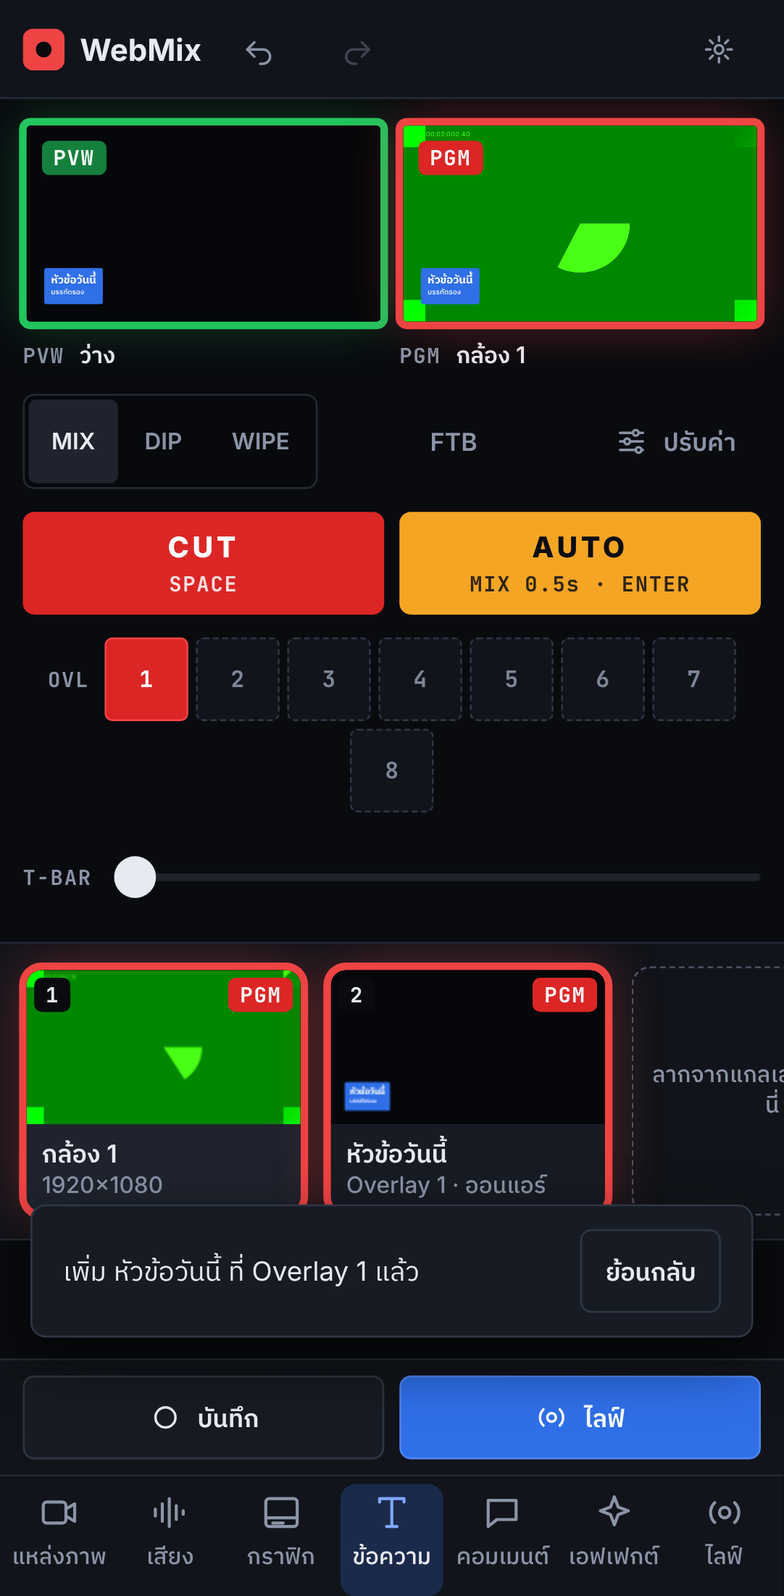
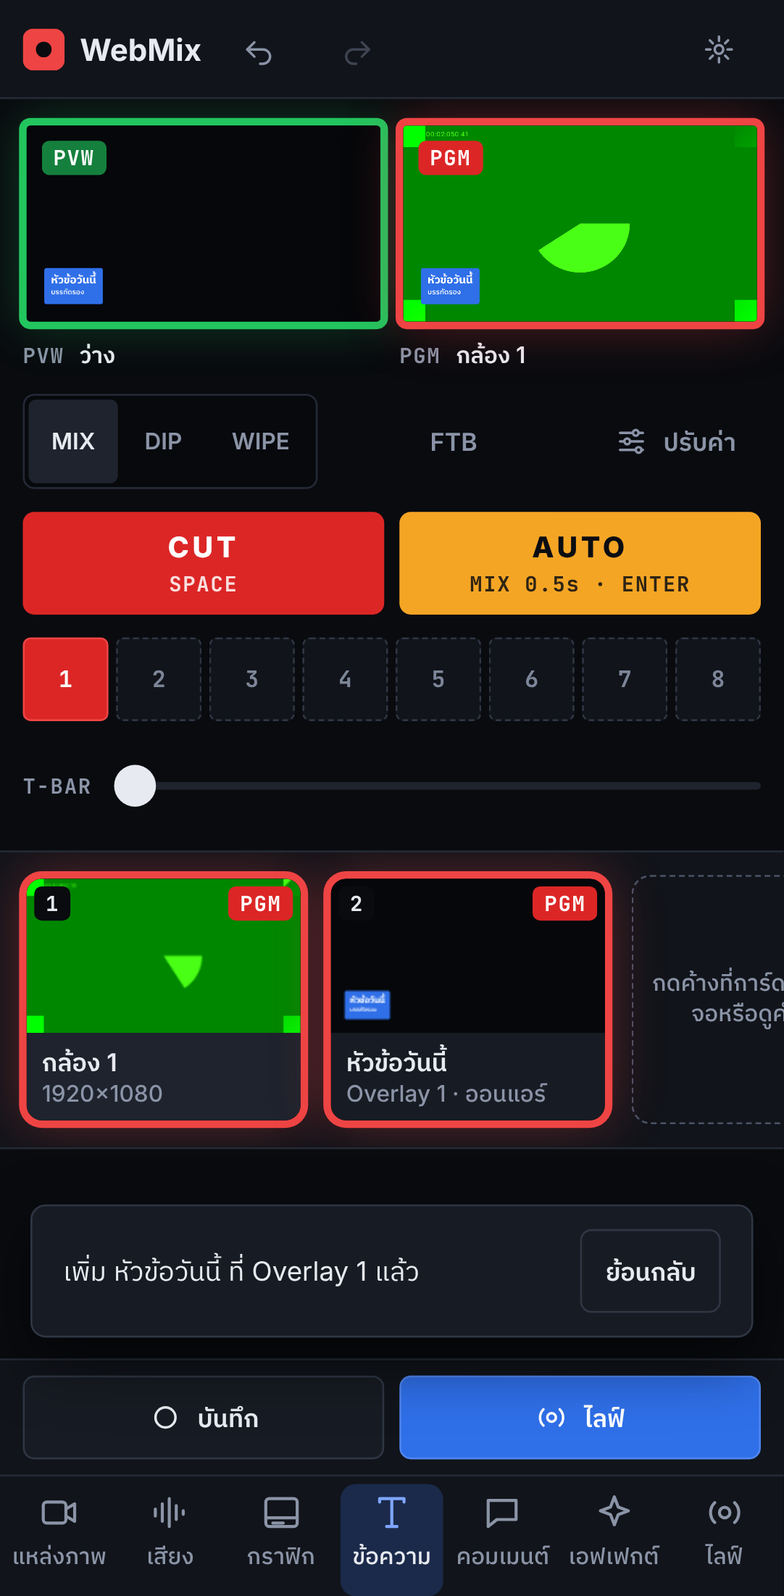
Long-press or right-click a source card to put it on an overlay
- Card menu with the eight overlay channels (showing what is on each) plus take on/off,
  remove, send to PVW, CUT, edit and delete; bottom sheet on phones
- Long press works with touch, pen or a held mouse; the press does not also switch
- Cards are not HTML-draggable on touch screens so the long press is not stolen
- Overlay buttons fit one row on phones

Claude-Session: https://claude.ai/code/session_018is4AeNXbb7A8QyXR8Seq6

diff --git a/src/main.ts b/src/main.ts
@@ -958,6 +958,8 @@ function meterHtml(id: string, wide = false): string {
   return `<span class="meter${wide ? ' meter--wide' : ''}" data-meterbox="${id}"><i data-meter="${id}"></i><b class="meter__peak" data-peak="${id}"></b></span>`;
 }
 
+const coarse = () => matchMedia('(pointer: coarse)').matches;
+
 function cardHtml(s: Source, i: number): string {
   const isPgm = ovlOn(s.id) || scene.pgm === s.id || trans?.to === s.id;
   const isPvw = !isPgm && scene.pvw === s.id;
@@ -965,8 +967,8 @@ function cardHtml(s: Source, i: number): string {
   const ch = chOf(s.id);
   const sub = ch >= 0 ? `Overlay ${ch + 1} · ${scene.overlays[ch].on ? 'ออนแอร์' : 'ซ่อนอยู่'}` : s.kind === 'video' || s.kind === 'playlist' ? playbackLine(s) : s.meta;
   return `
-    <div class="wm-card ${isPgm ? 'is-pgm' : isPvw ? 'is-pvw' : ''} ${ui.selected === s.id ? 'is-selected' : ''}" role="button" tabindex="0" draggable="true"
-      data-act="card" data-id="${s.id}" aria-label="${i < 9 ? `${i + 1} ` : ''}${esc(s.name)}${word ? ` ${word}` : ''}">
+    <div class="wm-card ${isPgm ? 'is-pgm' : isPvw ? 'is-pvw' : ''} ${ui.selected === s.id ? 'is-selected' : ''}" role="button" tabindex="0" draggable="${!coarse()}"
+      data-act="card" data-id="${s.id}" aria-haspopup="menu" aria-label="${i < 9 ? `${i + 1} ` : ''}${esc(s.name)}${word ? ` ${word}` : ''}">
       <div class="wm-card__pic"><canvas data-thumb="${s.id}" width="192" height="108"></canvas>
         ${i < 9 ? `<span class="wm-card__num">${i + 1}</span>` : ''}${word ? `<span class="wm-card__tally">${word}</span>` : ''}</div>
       <div class="wm-card__foot"><div class="wm-card__name">${esc(s.name)}</div><div class="wm-card__sub">${esc(sub)}</div></div>
@@ -976,7 +978,7 @@ function cardHtml(s: Source, i: number): string {
 function renderStrip(): void {
   const vis = cutSources();
   $('#strip').innerHTML = `${vis.map(cardHtml).join('')}
-    <div class="drop">${vis.length ? 'ลากจากแกลเลอรีมาวางที่นี่' : 'ยังไม่มีแหล่งภาพ แตะ + ในแกลเลอรีเพื่อเพิ่ม'}</div>`;
+    <div class="drop">${vis.length ? `${coarse() ? 'กดค้างที่การ์ด' : 'คลิกขวาที่การ์ด'}เพื่อซ้อนบนจอหรือดูคำสั่งอื่น` : 'ยังไม่มีแหล่งภาพ แตะ + ในแกลเลอรีเพื่อเพิ่ม'}</div>`;
   lastThumb = 0;
 }
 
@@ -1397,6 +1399,137 @@ function applyData(id: string): void {
   changed(false);
   // refresh the inspector only when nobody is typing in it
   if (ui.selected === id && !$('#insp').contains(document.activeElement)) renderInspector();
+}
+
+/* ================= card menu (long press / right click) ================= */
+
+let menuFor: string | null = null;
+/** a long press just opened the menu: swallow the click that follows */
+let menuSwallowClick = false;
+
+function closeCardMenu(): void {
+  document.getElementById('card-menu')?.remove();
+  document.body.classList.remove('menu-open');
+  const was = menuFor;
+  menuFor = null;
+  if (was) document.querySelector<HTMLElement>(`#strip .wm-card[data-id="${was}"]`)?.classList.remove('is-held');
+}
+
+function openCardMenu(id: string): void {
+  const s = byId(id);
+  const card = document.querySelector<HTMLElement>(`#strip .wm-card[data-id="${id}"]`);
+  if (!s || !card) return;
+  closeCardMenu();
+  menuFor = id;
+  card.classList.add('is-held');
+  const ch = chOf(id);
+  const on = ch >= 0 && scene.overlays[ch].on;
+  const slate = s.kind === 'text' && s.props.style === 'slate';
+  const el = document.createElement('div');
+  el.id = 'card-menu';
+  el.className = 'card-menu';
+  el.setAttribute('role', 'menu');
+  el.setAttribute('aria-label', `คำสั่งของ ${s.name}`);
+  el.innerHTML = `
+    <div class="card-menu__head"><b>${esc(s.name)}</b>${tallyChip(s).replace(' id="insp-chip"', '')}
+      <button type="button" class="wm-btn wm-btn--icon wm-btn--ghost" data-menu="close" aria-label="ปิด">${icon('close')}</button></div>
+    ${slate ? '' : `<p class="card-menu__label">${ch >= 0 ? `อยู่ที่ Overlay ${ch + 1} · แตะช่องอื่นเพื่อย้าย` : 'ซ้อนบน Program ที่ช่อง'}</p>
+    <div class="card-menu__grid">${scene.overlays.map((o, i) => {
+      const who = byId(o.src);
+      const mine = o.src === id;
+      return `<button type="button" role="menuitem" class="ovl-pick${mine ? ' is-mine' : ''}${o.on ? ' is-on' : ''}" data-menu="ch" data-i="${i}" aria-pressed="${mine}"
+        aria-label="Overlay ${i + 1}${who ? ` (ตอนนี้ ${esc(who.name)})` : ' ว่าง'}"><b>${i + 1}</b><span>${mine ? (o.on ? 'ออนแอร์' : 'ซ่อนอยู่') : who ? esc(who.name) : 'ว่าง'}</span></button>`;
+    }).join('')}</div>`}
+    <div class="card-menu__actions">
+      ${ch >= 0 ? `<button type="button" role="menuitem" class="wm-btn ${on ? 'wm-btn--live' : 'wm-btn--primary'}" data-menu="toggle">${on ? 'เอาลงจากจอ' : 'ขึ้นจอ'}</button>
+        <button type="button" role="menuitem" class="wm-btn" data-menu="unassign">เอาออกจาก Overlay</button>`
+      : `<button type="button" role="menuitem" class="wm-btn" data-menu="pvw">ส่งไป PVW</button>
+        <button type="button" role="menuitem" class="wm-btn" data-menu="cut">CUT ขึ้น PGM</button>`}
+      <button type="button" role="menuitem" class="wm-btn" data-menu="edit">${icon('sliders')}ปรับค่า</button>
+      <button type="button" role="menuitem" class="wm-btn" data-menu="delete">${icon('trash')}ลบ</button>
+    </div>`;
+  document.body.append(el);
+  document.body.classList.add('menu-open');
+  // float above the card on wide screens; on phones the CSS turns it into a bottom sheet
+  if (!matchMedia('(max-width: 767px)').matches) {
+    const r = card.getBoundingClientRect();
+    const w = el.offsetWidth, h = el.offsetHeight;
+    el.style.left = `${Math.max(8, Math.min(innerWidth - w - 8, r.left + r.width / 2 - w / 2))}px`;
+    el.style.top = `${Math.max(8, r.top - h - 8)}px`;
+  }
+  el.querySelector<HTMLElement>('[aria-pressed="true"], [role="menuitem"]')?.focus();
+  el.addEventListener('click', (e) => {
+    const b = (e.target as Element).closest<HTMLElement>('[data-menu]');
+    if (!b) return;
+    const act = b.dataset.menu;
+    closeCardMenu();
+    if (act === 'ch') {
+      const i = Number(b.dataset.i);
+      if (scene.overlays[i].src === id) return setOverlay(i, !scene.overlays[i].on);
+      assignOverlay(id, i);
+      setOverlay(i, true);
+      select(id);
+      renderInspector();
+    } else if (act === 'toggle') toggleOverlay(id);
+    else if (act === 'unassign') unassignOverlay(id);
+    else if (act === 'pvw') toPreview(id);
+    else if (act === 'cut') cutTo(id);
+    else if (act === 'edit') {
+      select(id);
+      ui.inspOpen = true;
+      renderInspector();
+      renderStrip();
+      document.body.classList.add('insp-open');
+    } else if (act === 'delete') removeSource(id);
+  });
+}
+
+// long press on touch (and pen / mouse held), right click with a mouse, the menu key on a focused card
+{
+  let timer = 0;
+  let start: { x: number; y: number; id: string } | null = null;
+  const strip = $('#strip');
+  strip.addEventListener('pointerdown', (e) => {
+    menuSwallowClick = false;
+    const card = (e.target as Element).closest<HTMLElement>('.wm-card[data-id]');
+    if (!card || e.button !== 0) return;
+    start = { x: e.clientX, y: e.clientY, id: card.dataset.id! };
+    window.clearTimeout(timer);
+    timer = window.setTimeout(() => {
+      if (!start) return;
+      menuSwallowClick = true;
+      navigator.vibrate?.(15);
+      openCardMenu(start.id);
+      start = null;
+    }, 500);
+  });
+  const cancel = () => {
+    window.clearTimeout(timer);
+    start = null;
+  };
+  strip.addEventListener('pointermove', (e) => {
+    if (start && Math.hypot(e.clientX - start.x, e.clientY - start.y) > 10) cancel();
+  });
+  strip.addEventListener('pointerup', cancel);
+  strip.addEventListener('pointercancel', cancel);
+  strip.addEventListener('dragstart', cancel);
+  strip.addEventListener('contextmenu', (e) => {
+    const card = (e.target as Element).closest<HTMLElement>('.wm-card[data-id]');
+    if (!card) return;
+    e.preventDefault();
+    cancel();
+    if (menuFor !== card.dataset.id) openCardMenu(card.dataset.id!);
+  });
+  strip.addEventListener('keydown', (e) => {
+    const card = (e.target as Element).closest<HTMLElement>('.wm-card[data-id]');
+    if (card && (e.key === 'ContextMenu' || (e.shiftKey && e.key === 'F10'))) {
+      e.preventDefault();
+      openCardMenu(card.dataset.id!);
+    }
+  });
+  document.addEventListener('pointerdown', (e) => {
+    if (menuFor && !(e.target as Element).closest('#card-menu, #strip .wm-card.is-held')) closeCardMenu();
+  }, true);
 }
 
 /* ================= toast & dialogs ================= */
@@ -1887,6 +2020,10 @@ const actions: Record<string, (el: HTMLElement, e: MouseEvent) => void> = {
   tile: (el) => void tilesFor(ui.cat).find((t) => t.id === el.dataset.tile)?.run(),
   card: (el) => {
     const id = el.dataset.id!;
+    if (menuSwallowClick) {
+      menuSwallowClick = false;
+      return;
+    }
     const now = performance.now();
     if (lastTap.id === id && now - lastTap.t < 350) {
       lastTap = { id: '', t: 0 };
@@ -2146,7 +2283,10 @@ document.addEventListener('click', (e) => {
   }
 });
 
-$('#scrim').addEventListener('click', closeSheets);
+$('#scrim').addEventListener('click', () => {
+  closeCardMenu();
+  closeSheets();
+});
 
 document.addEventListener('input', (e) => {
   const t = e.target as HTMLInputElement;
@@ -2236,7 +2376,10 @@ document.addEventListener('keydown', (e) => {
   }
   if (typing || mod || e.altKey) return;
   const onControl = t.matches('button, [role="button"], a, input');
-  if (e.key === 'Escape') return closeSheets();
+  if (e.key === 'Escape') {
+    if (menuFor) return closeCardMenu();
+    return closeSheets();
+  }
   if (e.code === 'Space' && !onControl) {
     e.preventDefault();
     return cut();

diff --git a/tests/cardmenu.spec.ts b/tests/cardmenu.spec.ts
@@ -1,0 +1,97 @@
+import { expect, test, type Page } from '@playwright/test';
+import { addTile, cards, pgmName, pvwName } from './helpers';
+
+const menu = (page: Page) => page.locator('#card-menu');
+const ovlBtn = (page: Page, n: number) => page.locator(`#ovl-row [data-i="${n - 1}"]`);
+
+test.describe('desktop', () => {
+  test.skip(({ isMobile }) => isMobile, 'desktop flow');
+
+  test('right click a card to put it on an overlay channel', async ({ page }) => {
+    await page.goto('/');
+    await addTile(page, 'source', 'bars');
+    await addTile(page, 'source', 'cam');
+    await addTile(page, 'text', 't-l3');
+    await expect(cards(page)).toHaveCount(3);
+
+    // the camera: right click → Overlay 3 → it goes up as a PIP, Program stays on the bars
+    await cards(page).nth(1).click({ button: 'right' });
+    await expect(menu(page)).toBeVisible();
+    await expect(menu(page).locator('.ovl-pick')).toHaveCount(8);
+    await expect(menu(page).locator('[data-i="0"]')).toContainText('หัวข้อวันนี้');
+    await menu(page).locator('[data-i="2"]').click();
+    await expect(menu(page)).toHaveCount(0);
+    await expect(ovlBtn(page, 3)).toHaveAttribute('aria-pressed', 'true');
+    await expect(cards(page).nth(1)).toContainText('Overlay 3 · ออนแอร์');
+    await expect(pgmName(page)).toHaveText('Color Bars');
+
+    // its menu now offers take off / remove
+    await cards(page).nth(1).click({ button: 'right' });
+    await expect(menu(page).locator('[data-i="2"]')).toHaveAttribute('aria-pressed', 'true');
+    await menu(page).locator('[data-menu="toggle"]').click();
+    await expect(ovlBtn(page, 3)).toHaveAttribute('aria-pressed', 'false');
+    await cards(page).nth(1).click({ button: 'right' });
+    await menu(page).locator('[data-menu="unassign"]').click();
+    await expect(ovlBtn(page, 3)).toHaveClass(/is-empty/);
+
+    // Escape closes, and so does a click elsewhere
+    await cards(page).nth(0).click({ button: 'right' });
+    await page.keyboard.press('Escape');
+    await expect(menu(page)).toHaveCount(0);
+    await cards(page).nth(0).click({ button: 'right' });
+    await page.locator('#stage').click({ position: { x: 5, y: 5 } });
+    await expect(menu(page)).toHaveCount(0);
+  });
+
+  test('holding the mouse on a card opens the menu without switching', async ({ page }) => {
+    await page.goto('/');
+    await addTile(page, 'source', 'bars');
+    await addTile(page, 'source', 'color');
+    await expect(pvwName(page)).toHaveText('พื้นสี 1');
+    const box = (await cards(page).nth(0).boundingBox())!;
+    await page.mouse.move(box.x + box.width / 2, box.y + box.height / 2);
+    await page.mouse.down();
+    await page.waitForTimeout(650);
+    await page.mouse.up();
+    await expect(menu(page)).toBeVisible();
+    // the press did not send Color Bars to Preview
+    await expect(pvwName(page)).toHaveText('พื้นสี 1');
+    await menu(page).locator('[data-menu="pvw"]').click();
+    await expect(pvwName(page)).toHaveText('พื้นสี 1');
+    await page.screenshot({ path: 'docs/screenshots/card-menu.png' });
+  });
+});
+
+test.describe('touch', () => {
+  test.skip(({ isMobile }) => !isMobile, 'touch flow');
+
+  test('long press a card on a phone opens the overlay sheet', async ({ page }) => {
+    await page.goto('/');
+    await page.locator('#rail [data-cat="text"]').tap();
+    await page.locator('[data-tile="t-l3"]').tap();
+    await page.locator('#rail [data-cat="source"]').tap();
+    await page.locator('[data-tile="bars"]').tap();
+    await page.locator('#gallery .g-close').tap();
+    await expect(cards(page)).toHaveCount(2);
+    await expect(page.locator('#gallery')).toBeHidden();
+    await page.waitForTimeout(300); // the sheet finishes sliding away
+    // a real touch held for 700 ms (card scrolled clear of the bottom bar first)
+    await cards(page).nth(0).evaluate((el) => el.scrollIntoView({ block: 'center' }));
+    const box = (await cards(page).nth(0).boundingBox())!;
+    const cdp = await page.context().newCDPSession(page);
+    const pt = { x: box.x + box.width / 2, y: box.y + box.height / 2 };
+    await cdp.send('Input.dispatchTouchEvent', { type: 'touchStart', touchPoints: [pt] });
+    await page.waitForTimeout(700);
+    await cdp.send('Input.dispatchTouchEvent', { type: 'touchEnd', touchPoints: [] });
+    await expect(menu(page)).toBeVisible();
+    const m = (await menu(page).boundingBox())!;
+    expect(m.y + m.height).toBeGreaterThan(page.viewportSize()!.height - 4);
+    const small = await menu(page).evaluate((el) => [...el.querySelectorAll<HTMLElement>('button')]
+      .filter((b) => b.getBoundingClientRect().height < 44).map((b) => b.textContent?.trim()));
+    expect(small).toEqual([]);
+    await page.screenshot({ path: 'docs/screenshots/card-menu-mobile.png' });
+    await menu(page).locator('[data-i="1"]').tap();
+    await expect(menu(page)).toHaveCount(0);
+    await expect(cards(page).nth(0)).toContainText('Overlay 2 · ออนแอร์');
+  });
+});

diff --git a/src/app.css b/src/app.css
@@ -177,6 +177,26 @@ select.wm-input { padding-right: var(--space-2); cursor: pointer; }
 .drop { flex: none; width: 168px; min-height: 120px; border: 1px dashed var(--line-strong); border-radius: var(--radius-lg); display: flex; align-items: center; justify-content: center; text-align: center; padding: var(--space-2); color: var(--muted); font: 500 12px/16px var(--font-sans); }
 .strip.is-drop .drop { background: var(--accent-soft); border-color: var(--accent-line); color: var(--text); }
 
+/* ---------- card menu (long press / right click) ---------- */
+.wm-card { -webkit-touch-callout: none; user-select: none; -webkit-user-select: none; }
+.wm-card.is-held { box-shadow: var(--focus-ring); }
+.card-menu { position: fixed; z-index: 60; width: 360px; max-width: calc(100vw - 16px); display: flex; flex-direction: column; gap: var(--space-3); padding: var(--space-3); border-radius: var(--radius-md); background: var(--panel-2); border: 1px solid var(--line-2); box-shadow: var(--pop); }
+.card-menu__head { display: flex; align-items: center; gap: var(--space-2); }
+.card-menu__head b { flex: 1; min-width: 0; font: 700 16px/24px var(--font-sans); white-space: nowrap; overflow: hidden; text-overflow: ellipsis; }
+.card-menu__label { margin: 0; font: 500 12px/16px var(--font-sans); color: var(--muted); }
+.card-menu__grid { display: grid; grid-template-columns: repeat(4, 1fr); gap: var(--space-2); }
+.ovl-pick { display: flex; flex-direction: column; align-items: center; justify-content: center; gap: 2px; min-height: 52px; padding: var(--space-1); border-radius: var(--radius-sm); border: 1px solid var(--line-2); background: var(--panel); color: var(--text); cursor: pointer; min-width: 0; }
+.ovl-pick b { font: 700 15px/20px var(--font-mono); }
+.ovl-pick span { font: 500 12px/16px var(--font-sans); color: var(--muted); max-width: 100%; white-space: nowrap; overflow: hidden; text-overflow: ellipsis; }
+.ovl-pick:hover { background: var(--panel-3); border-color: var(--line-strong); }
+.ovl-pick:focus-visible { outline: none; box-shadow: var(--focus-ring); }
+.ovl-pick.is-on { border-color: var(--pgm); }
+.ovl-pick.is-mine { background: var(--accent-soft); border-color: var(--accent-line); }
+.ovl-pick.is-mine span { color: var(--accent-text); }
+.ovl-pick.is-mine.is-on { background: var(--pgm-soft); border-color: var(--pgm); }
+.ovl-pick.is-mine.is-on span { color: var(--pgm); }
+.card-menu__actions { display: flex; flex-wrap: wrap; gap: var(--space-2); }
+
 /* ---------- toast & dialog ---------- */
 .toast-host { position: fixed; left: 50%; bottom: var(--space-6); transform: translateX(-50%); z-index: 50; max-width: calc(100vw - 2 * var(--space-4)); }
 .toast-host .wm-toast { max-width: 100%; }
@@ -236,6 +256,7 @@ select.wm-input { padding-right: var(--space-2); cursor: pointer; }
   .pl-item { min-height: var(--control-lg); }
   .ovl-btn, .preset__del { width: var(--control-lg); height: var(--control-lg); }
   .mon-btn, .lim-btn, .lufs__reset { min-height: var(--control-lg); }
+  .ovl-pick { min-height: 56px; }
   .wm-textarea { height: auto; }
   .wm-disclose { min-height: var(--control-lg); }
   .wm-slider { height: var(--control-lg); }
@@ -274,5 +295,10 @@ select.wm-input { padding-right: var(--space-2); cursor: pointer; }
   .toast-host { bottom: calc(64px + 60px + var(--space-3)); }
   .toast-host .wm-toast { width: calc(100vw - 2 * var(--space-4)); }
   .chooser { grid-template-columns: 1fr; }
+  .ovl-row { display: grid; grid-template-columns: repeat(8, minmax(0, 1fr)); width: 100%; }
+  .ovl-row .tag { display: none; }
+  .ovl-row .ovl-btn { width: auto; }
+  .card-menu { left: 0 !important; right: 0; top: auto !important; bottom: 0; width: auto; max-width: none; border-radius: var(--radius-md) var(--radius-md) 0 0; padding-bottom: calc(var(--space-4) + env(safe-area-inset-bottom)); }
+  .menu-open .scrim { display: block; position: fixed; inset: 0; z-index: 55; background: var(--bg); opacity: .5; }
   .dest__on { margin-left: 0; min-height: var(--control-lg); }
 }

diff --git a/README.md b/README.md
@@ -15,7 +15,7 @@
    - ไฟล์วิดีโอและ **เพลย์ลิสต์** (เลือกได้หลายไฟล์): รออยู่ที่เฟรมแรกตอนอยู่ PVW, **เล่นเองเมื่อขึ้น PGM และหยุดเมื่อลง** (ปิดได้), การ์ดบอกสถานะและเวลาที่เหลือ (`เล่น −00:12`, `จบแล้ว`) แท็บ "เล่น" มีเล่น / หยุด, เริ่มใหม่, เลื่อนตำแหน่ง, ไฟล์ก่อน / ถัดไป, เล่นวน (ปิดอยู่เป็นค่าเริ่มต้น) และ "เริ่มจากต้นทุกครั้งที่ขึ้น PGM" · ไฟล์ที่เบราว์เซอร์เล่นไม่ได้จะแจ้งให้แปลงเป็น MP4 (H.264) หรือ WebM
    - กล้องเลือกความละเอียด 720p / 1080p / 4K ได้ใน "ตั้งค่าขั้นสูง"
 4. **ปรับค่า** แตะการ์ดแล้วปรับในแผงขวา: ขนาด, ความโปร่งใส, กลับด้าน, แสดงซ้อนบนจอ ค่าอื่น ๆ (ตำแหน่ง, การจัดภาพ, ชื่อ) อยู่ใน "ตั้งค่าขั้นสูง" ถ้าไม่ได้เลือกอะไร แผงนี้ปรับเอาต์พุต: ระยะเวลา AUTO, ระดับเสียงรวม, ความละเอียดถึง **4K** และ 30 / 60 fps, FTB, เปิด **หน้าต่าง Program** แยก (ลากไปจอที่สองหรือโปรเจกเตอร์ ดับเบิลคลิกเพื่อเต็มจอ), **Multiview** (PVW, PGM และ 8 แหล่งภาพพร้อม tally), เต็มจอ และถ่ายภาพนิ่ง PNG
-5. **ข้อความ / กราฟิก / คอมเมนต์ (Overlay 1–8)** กราฟิกทุกชิ้นอยู่บนช่อง Overlay 1–8 ซ้อนบน Program โดยไม่แตะภาพหลัก กดปุ่ม 1–8 ในแถว OVL ใต้ CUT / AUTO หรือ `Shift+1`–`Shift+8` เพื่อขึ้น / ลง (กดเลขการ์ดของกราฟิกก็ได้) ตั้งช่อง เอฟเฟกต์เข้า-ออก (Cut, Fade, Zoom, Slide ←→↑↓, Wipe) และระยะเวลาใน "ตั้งค่าขั้นสูง" หลังเปิดหน้าใหม่กราฟิกจะไม่ขึ้นจอเอง ปุ่ม Overlay ที่ยังว่างแตะเพื่อเลือกสิ่งที่จะซ้อนได้เลย (กล้อง / วิดีโอเต็มจอจะย่อเป็นภาพซ้อนให้) และเปิด "แสดงบน PVW ก่อน" เพื่อตรวจกราฟิกบนจอ PVW ก่อนขึ้นจริง (ปุ่มขอบเขียว)
+5. **ข้อความ / กราฟิก / คอมเมนต์ (Overlay 1–8)** กราฟิกทุกชิ้นอยู่บนช่อง Overlay 1–8 ซ้อนบน Program โดยไม่แตะภาพหลัก **กดค้างที่การ์ด (มือถือ / แท็บเล็ต) หรือคลิกขวา (คอมพิวเตอร์)** แล้วแตะช่อง 1–8 เพื่อซ้อนบนจอทันที เมนูเดียวกันมี ขึ้น / ลงจอ, ย้ายช่อง, เอาออก, ส่งไป PVW, CUT, ปรับค่า และลบ หรือกดปุ่ม 1–8 ในแถว OVL ใต้ CUT / AUTO หรือ `Shift+1`–`Shift+8` เพื่อขึ้น / ลง (กดเลขการ์ดของกราฟิกก็ได้) ตั้งช่อง เอฟเฟกต์เข้า-ออก (Cut, Fade, Zoom, Slide ←→↑↓, Wipe) และระยะเวลาใน "ตั้งค่าขั้นสูง" หลังเปิดหน้าใหม่กราฟิกจะไม่ขึ้นจอเอง ปุ่ม Overlay ที่ยังว่างแตะเพื่อเลือกสิ่งที่จะซ้อนได้เลย (กล้อง / วิดีโอเต็มจอจะย่อเป็นภาพซ้อนให้) และเปิด "แสดงบน PVW ก่อน" เพื่อตรวจกราฟิกบนจอ PVW ก่อนขึ้นจริง (ปุ่มขอบเขียว)
    - Lower third, หัวเรื่อง, ป้ายมุมจอ, การ์ดคอมเมนต์, **ตัววิ่งข่าว** (บรรทัดละเรื่อง ปรับความเร็วได้) และ **ป้ายที่บันทึกไว้** แตะเพื่อสลับชื่อ / ตำแหน่งระหว่างไลฟ์
    - **ป้ายคะแนน** ปุ่ม + / − ของแต่ละทีม, ช่วงเวลา, สีทีม · **นับถอยหลัง / จับเวลา** เริ่ม หยุด เริ่มใหม่
    - **ภาพซ้อน (PIP)** เลือกกล้อง / หน้าจอ / วิดีโอให้ย่อลงมุมจอ ปรับตำแหน่ง ครอป 4 ด้าน และขอบ
